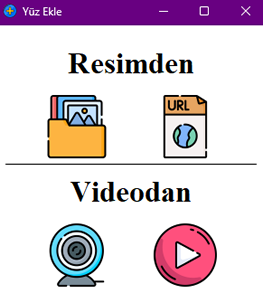
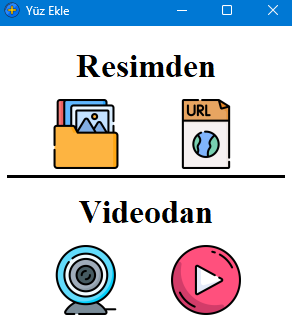
up

diff --git a/src/main/Application.py b/src/main/Application.py
@@ -20,10 +20,14 @@ def getLine():
 
 
 # Label
-def getLabelFeatures(lbl, isUseFont):
+def getLabelFeatures(lbl, isUseFont, isUseSecondFont):
     if isUseFont:
         fontLabel = QtGui.QFont("Times New Roman", 25)
         fontLabel.setBold(True)
+        lbl.setFont(fontLabel)
+    if isUseSecondFont:
+        fontLabel = QtGui.QFont("Times New Roman", 15)
+        # fontLabel.setBold(True)
         lbl.setFont(fontLabel)
     lbl.setAlignment(QtCore.Qt.AlignCenter)
     return lbl
@@ -45,7 +49,7 @@ def getButtonFeatures(btn, pngName):
 def getComboBoxFeatures(cmbBox):
     fontComboBox = QtGui.QFont("Times New Roman", 15)
     cmbBox.setFont(fontComboBox)
-    cmbBox.setStyleSheet("background-color: black; color: white;")
+    cmbBox.setStyleSheet("background-color: white; color: black;")
     return cmbBox
 
 
@@ -61,13 +65,18 @@ def getMsgBoxFeatures(msgBox, title, txt, iconType, btnType):
     return msgBox
 
 
-def getTextBoxFeatures(textBox, text):
+def getTextBoxFeatures(textBox, text, isText):
     fontTextBox = QtGui.QFont("Times New Roman", 15)
     textBox.setFont(fontTextBox)
-    textBox.setStyleSheet("background-color: black; color: white;")
-    textBox.setFixedSize(30, 30)
+    if not isText:
+        textBox.setFixedSize(30, 30)
+        textBox.setMaxLength(2)
+        textBox.setStyleSheet("background-color: white; color: black;")
+        textBox.setEnabled(True)
+    else:
+        textBox.setStyleSheet("background-color: white; color: black;")
+        textBox.setEnabled(False)
     textBox.setText(text)
-    textBox.setMaxLength(2)
     return textBox
 
 
@@ -75,19 +84,9 @@ class MainWidget(QWidget):
     def __init__(self):
         super().__init__()
         self.selectedModel = "Model Seçiniz"
-        self.textBoxSuccessRate = getTextBoxFeatures(QLineEdit(self), "90")
+        self.textBoxSuccessRate = getTextBoxFeatures(QLineEdit(self), "90", False)
 
         self.initUI()
-
-        # buton ekle
-        self.button = QPushButton('Oku', self)
-        self.button.move(20, 80)
-        self.button.clicked.connect(self.on_button_click)
-
-    def on_button_click(self):
-        # textbox içeriğini oku
-        textbox_verisi = self.textbox.text()
-        print(textbox_verisi)
 
     def closeEvent(self, event):
         reply = QtWidgets.QMessageBox.question(self, 'Uyarı', 'Programdan çıkmak istiyor musunuz?',
@@ -103,7 +102,7 @@ class MainWidget(QWidget):
 
     def initUI(self):
         mainWith = 500
-        mainHeight = 450
+        mainHeight = 500
         screen = QtWidgets.QApplication.desktop().screenGeometry()
         screenWidth, screenHeight = screen.width(), screen.height()
         self.setGeometry(int(screenWidth / 2 - int(mainWith / 2)), int(screenHeight / 2 - int(mainHeight / 2)),
@@ -115,7 +114,7 @@ class MainWidget(QWidget):
         #########
         # Y Ü Z #
         #########
-        labelFace = getLabelFeatures(QLabel('Yüz'), isUseFont=True)
+        labelFace = getLabelFeatures(QLabel('Yüz'), isUseFont=True, isUseSecondFont=False)
         # Yüzler için butonlar
         btnFaceAdd = getButtonFeatures(QPushButton(self), pngAdd)
         btnFaceAdd.clicked.connect(self.faceAddScreen)
@@ -134,7 +133,7 @@ class MainWidget(QWidget):
         # M O D E L#
         ############
         # Modeller etiketi
-        labelModel = getLabelFeatures(QLabel('Model'), isUseFont=True)
+        labelModel = getLabelFeatures(QLabel('Model'), isUseFont=True, isUseSecondFont=False)
         # Modeller için butonlar
         btnModelTrain = getButtonFeatures(QPushButton(self), pngTrain)
         btnModelTrain.clicked.connect(self.modelTrainScreen)
@@ -152,7 +151,7 @@ class MainWidget(QWidget):
         # T E S T #
         ###########
         # Test etiketi
-        labelTest = getLabelFeatures(QLabel('Test'), isUseFont=True)
+        labelTest = getLabelFeatures(QLabel('Test'), isUseFont=True, isUseSecondFont=False)
 
         # ComboBox ayarı
         # Dizin içindeki .h5 uzantılı dosyaları bulma
@@ -195,9 +194,15 @@ class MainWidget(QWidget):
         layoutV.addLayout(layoutModel)
         layoutV.addWidget(getLine())
 
-        layoutH.addWidget(labelTest)
+        layoutV.addWidget(labelTest)
         layoutH.addWidget(self.textBoxSuccessRate)
-        layoutH.addWidget(comboModel)
+
+        # labelSuccessRate = getLabelFeatures(QLabel(""), isUseFont=False, isUseSecondFont=True)
+        labelSuccessRate = getTextBoxFeatures(QLineEdit(self), "% Başarı Oranı", isText=True)
+        labelSuccessRate.setAlignment(QtCore.Qt.AlignLeft)
+        layoutH.addWidget(labelSuccessRate)
+
+        layoutV.addWidget(comboModel)
         layoutV.addLayout(layoutH)
         layoutV.addLayout(layoutTest)
         self.setLayout(layoutV)
@@ -219,7 +224,7 @@ class MainWidget(QWidget):
         # R E S İ M #
         #############
         # Resim etiketi
-        labelImage = getLabelFeatures(QLabel('Resimden'), isUseFont=True)
+        labelImage = getLabelFeatures(QLabel('Resimden'), isUseFont=True, isUseSecondFont=False)
         # Resim için butonlar
         btnImageFolder = getButtonFeatures(QPushButton(self), pngFolder)
         btnImageFolder.clicked.connect(self.faceAddImageFolderScreen)
@@ -234,7 +239,7 @@ class MainWidget(QWidget):
         # V İ D E O #
         #############
         # Video etiketi
-        labelVideo = getLabelFeatures(QLabel('Videodan'), isUseFont=True)
+        labelVideo = getLabelFeatures(QLabel('Videodan'), isUseFont=True, isUseSecondFont=False)
         # Video için butonlar
         btnVideoCamera = getButtonFeatures(QPushButton(self), pngCamera)
         btnVideoCamera.clicked.connect(self.faceAddVideoCameraScreen)
@@ -459,6 +464,8 @@ class MainWidget(QWidget):
     def testCameraScreen(self):
         modelName = self.selectedModel
         sRate = self.textBoxSuccessRate.text()
+        if str(sRate).__len__() == 0:
+            sRate = "0"
         # Model seçilmemişse uyarı verme
         rateLimit = 35
         if modelName.__eq__("Model Seçiniz") or int(sRate) < int(rateLimit):
@@ -478,60 +485,84 @@ class MainWidget(QWidget):
             testCamera(str(modelName), int(sRate))
 
     def testImageScreen(self):
-        mainWith = 300
-        mainHeight = 300
-        screen = QtWidgets.QApplication.desktop().screenGeometry()
-        screenWidth, screenHeight = screen.width(), screen.height()
-
-        self.window = QWidget()
-        self.window.setWindowTitle('Test Resim')
-        self.window.setStyleSheet("background-color: white;")
-        self.window.setWindowIcon(QIcon(pngPicture))
-
-        # Ana düzenleyici
-        layout = QVBoxLayout()
-
-        self.window.setLayout(layout)
-        self.window.setGeometry(int(screenWidth / 2 - int(mainWith / 2)), int(screenHeight / 2 - int(mainHeight / 2)),
-                                mainWith, mainHeight)
-        self.window.show()
+        modelName = self.selectedModel
+        sRate = self.textBoxSuccessRate.text()
+        if str(sRate).__len__() == 0:
+            sRate = "0"
+        # Model seçilmemişse uyarı verme
+        rateLimit = 35
+        if modelName.__eq__("Model Seçiniz") or int(sRate) < int(rateLimit):
+            if modelName.__eq__("Model Seçiniz"):
+                getMsgBoxFeatures(QMessageBox(self), "Uyarı", "Lütfen bir model seçin", QMessageBox.Warning,
+                                  QMessageBox.Ok).exec_()
+            if int(sRate) < int(rateLimit):
+                getMsgBoxFeatures(QMessageBox(self), "Uyarı",
+                                  "Lütfen " + str(rateLimit) + "'in üstünde tanımlı bir değer giriniz.",
+                                  QMessageBox.Warning,
+                                  QMessageBox.Ok).exec_()
+        else:
+            # Mesaj kutusunu gösterme
+            getMsgBoxFeatures(QMessageBox(self), "Kullanılacak Model ve Başarı Oranı",
+                              modelName + "\nBaşarı oranı " + str(sRate) + " olarak belirlenmiştir.",
+                              QMessageBox.Information, QMessageBox.Ok).exec_()
 
     def testUrlScreen(self):
-        mainWith = 300
-        mainHeight = 150
-        screen = QtWidgets.QApplication.desktop().screenGeometry()
-        screenWidth, screenHeight = screen.width(), screen.height()
+        modelName = self.selectedModel
+        sRate = self.textBoxSuccessRate.text()
+        if str(sRate).__len__() == 0:
+            sRate = "0"
+        # Model seçilmemişse uyarı verme
+        rateLimit = 35
+        if modelName.__eq__("Model Seçiniz") or int(sRate) < int(rateLimit):
+            if modelName.__eq__("Model Seçiniz"):
+                getMsgBoxFeatures(QMessageBox(self), "Uyarı", "Lütfen bir model seçin", QMessageBox.Warning,
+                                  QMessageBox.Ok).exec_()
+            if int(sRate) < int(rateLimit):
+                getMsgBoxFeatures(QMessageBox(self), "Uyarı",
+                                  "Lütfen " + str(rateLimit) + "'in üstünde tanımlı bir değer giriniz.",
+                                  QMessageBox.Warning,
+                                  QMessageBox.Ok).exec_()
+        else:
+            # Mesaj kutusunu gösterme
+            getMsgBoxFeatures(QMessageBox(self), "Kullanılacak Model ve Başarı Oranı",
+                              modelName + "\nBaşarı oranı " + str(sRate) + " olarak belirlenmiştir.",
+                              QMessageBox.Information, QMessageBox.Ok).exec_()
 
-        self.window = QWidget()
-        self.window.setWindowTitle('Test Url')
-        self.window.setStyleSheet("background-color: white;")
-        self.window.setWindowIcon(QIcon(pngUrl))
+            mainWith = 300
+            mainHeight = 150
+            screen = QtWidgets.QApplication.desktop().screenGeometry()
+            screenWidth, screenHeight = screen.width(), screen.height()
 
-        #############
-        # R E S İ M #
-        #############
-        btnImageUrl = getButtonFeatures(QPushButton(self), pngImageUrl)
-        btnImageUrl.clicked.connect(self.testUrlImageScreen)
-        layoutImage = QHBoxLayout()
-        layoutImage.addWidget(btnImageUrl)
+            self.window = QWidget()
+            self.window.setWindowTitle('Test Url')
+            self.window.setStyleSheet("background-color: white;")
+            self.window.setWindowIcon(QIcon(pngUrl))
 
-        #################
-        # Y O U T U B E #
-        #################
-        btnVideoYoutube = getButtonFeatures(QPushButton(self), pngYoutube)
-        btnVideoYoutube.clicked.connect(self.testUrlYoutubeScreen)
-        layoutYoutube = QHBoxLayout()
-        layoutYoutube.addWidget(btnVideoYoutube)
+            #############
+            # R E S İ M #
+            #############
+            btnImageUrl = getButtonFeatures(QPushButton(self), pngImageUrl)
+            btnImageUrl.clicked.connect(self.testUrlImageScreen)
+            layoutImage = QHBoxLayout()
+            layoutImage.addWidget(btnImageUrl)
 
-        # Ana düzenleyici
-        layout = QHBoxLayout()
-        layout.addLayout(layoutImage)
-        layout.addLayout(layoutYoutube)
+            #################
+            # Y O U T U B E #
+            #################
+            btnVideoYoutube = getButtonFeatures(QPushButton(self), pngYoutube)
+            btnVideoYoutube.clicked.connect(self.testUrlYoutubeScreen)
+            layoutYoutube = QHBoxLayout()
+            layoutYoutube.addWidget(btnVideoYoutube)
 
-        self.window.setLayout(layout)
-        self.window.setGeometry(int(screenWidth / 2 - int(mainWith / 2)), int(screenHeight / 2 - int(mainHeight / 2)),
-                                mainWith, mainHeight)
-        self.window.show()
+            # Ana düzenleyici
+            layout = QHBoxLayout()
+            layout.addLayout(layoutImage)
+            layout.addLayout(layoutYoutube)
+
+            self.window.setLayout(layout)
+            self.window.setGeometry(int(screenWidth / 2 - int(mainWith / 2)), int(screenHeight / 2 - int(mainHeight / 2)),
+                                    mainWith, mainHeight)
+            self.window.show()
 
     def testUrlImageScreen(self):
         mainWith = 300

diff --git a/README.md b/README.md
@@ -2,9 +2,9 @@
 
 ## GUI Ekran Görüntüleri
 
-| Ana Ekran                               | Yüz Ekle                             |
-|-----------------------------------------|--------------------------------------|
-| ![](utils/projectImages/mainScreen.png) | ![](utils/projectImages/addFace.png) |
+| Ana Ekran                               | Yüz Ekle                              |
+|-----------------------------------------|---------------------------------------|
+| ![](utils/projectImages/mainScreen.png) | ![](utils/projectImages/addFace.png)  |
 
 | Test Url                             |
 |--------------------------------------|
